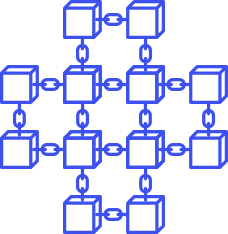
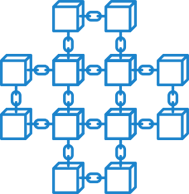
Changed blue color of all elements to the new one

Changed region(s): [[0.0, 0.0, 1.0, 1.0]]

diff --git a/client/src/containers/home/index.js b/client/src/containers/home/index.js
@@ -119,7 +119,7 @@ class Home extends Component {
         <div className="homeFooterContainer">
           <div className="contentContainer d-flex align-items-center flex-wrap">
             <Col xl={{ size: 10, offset: 1 }} lg={{ size: 10, offset: 1 }} md={{ size: 8, offset: 2 }} sm={{ size: 8, offset: 2 }} xs={{ size: 10, offset: 1 }}>
-              <p className="homeFooterText mb-0">Owning a <span>masternode</span> has never been easier! </p>
+              <p className="homeFooterText mb-0">Owning a masternode has never been easier! </p>
             </Col>
             <Col xl={{ size: 8, offset: 2 }} lg={{ size: 8, offset: 2 }} md={{ size: 6, offset: 3 }} sm={{ size: 6, offset: 3 }} xs={{ size: 10, offset: 1 }} className="d-flex justify-content-center mt-xl-0 mt-lg-0 mt-md-3 mt-sm-4 mt-xs-5">
               <button onClick={this.scrollToMasternodes} className="homeMainBannerButton">Setup a Masternode</button>

diff --git a/client/src/containers/authenticate/index.css b/client/src/containers/authenticate/index.css
@@ -20,7 +20,7 @@
   font-size: 32px;
 }
 
-.logInPageContainer{
+.logInPageContainer {
   min-height: calc(100vh - 60px);
 }
 
@@ -43,7 +43,7 @@
 }
 
 .logInForgotPassword {
-  color: #1983ca;
+  color: #1982CB;
   font-family: 'Arimo-Regular';
   font-size: 14px;
 }
@@ -56,7 +56,7 @@
   width: 100%;
   margin-bottom: 30px;
   border: none;
-  background-color: #2284C6;
+  background-color: #1982CB;
   padding: 11px 40px 11px 80px;
   cursor: pointer;
   color: white;
@@ -100,7 +100,7 @@
 }
 
 .logInSubmitButton {
-  background-color: #1983ca !important;
+  background-color: #1982CB !important;
   font-weight: bold;
 }
 
@@ -113,6 +113,10 @@
   margin-top: 10px;
   font-family: "Arimo-Regular";
   font-size: 15px;
+}
+
+.dontHaveAnAccountMessage > a {
+  color: #1982CB;
 }
 
 .signUpPageContainer {

diff --git a/client/src/index.css b/client/src/index.css
@@ -117,16 +117,16 @@ body {
 }
 
 .rc-checkbox.nodebucksCheckbox:hover .rc-checkbox-inner, .rc-checkbox-input:focus + .rc-checkbox-inner {
-  border-color: #3c9cdd;
+  border-color: #1982CB;
 }
 
 .rc-checkbox-checked .rc-checkbox-inner {
-  border-color: #3c9cdd;
-  background-color: #3c9cdd;
+  border-color: #1982CB;
+  background-color: #1982CB;
 }
 
 .rc-checkbox.nodebucksCheckbox .rc-checkbox-inner {
-  border: 2px solid #3c9cdd;
+  border: 2px solid #1982CB;
 }
 
 .socialButtonIcon {

diff --git a/client/src/containers/home/index.css b/client/src/containers/home/index.css
@@ -16,7 +16,7 @@
 }
 
 .homeAlert > span {
-  color: #2283C7;
+  color: #1982CB;
 }
 
 .homeMainBannerContainer > .contentContainer {
@@ -240,7 +240,7 @@
   display: flex;
   align-items: center;
   justify-content: center;
-  background-color: #2283C6;
+  background-color: #1982CB;
   padding: 100px 0;
 }
 
@@ -265,10 +265,6 @@
   font-size: 36px;
   text-align: center;
   color: #FFFFFF;
-}
-
-.homeFooterText > span {
-  color: #49FFF4;
 }
 
 @media (max-width: 992px) {

diff --git a/client/src/containers/dashboard/index.css b/client/src/containers/dashboard/index.css
@@ -33,7 +33,7 @@
   align-items: center;
   max-width: 275px;
   flex-direction: column;
-  background-color: #2283C6;
+  background-color: #1982CB;
   padding: 35px 0;
   margin-left: auto;
   margin-right: auto;
@@ -185,7 +185,7 @@
 
 .dashboardBalanceWithdrawButton,
 .dashboardMainTableWithdrawButton {
-  background-color: #2283C6;
+  background-color: #1982CB;
   display: flex;
   align-items: center;
   justify-content: center;
